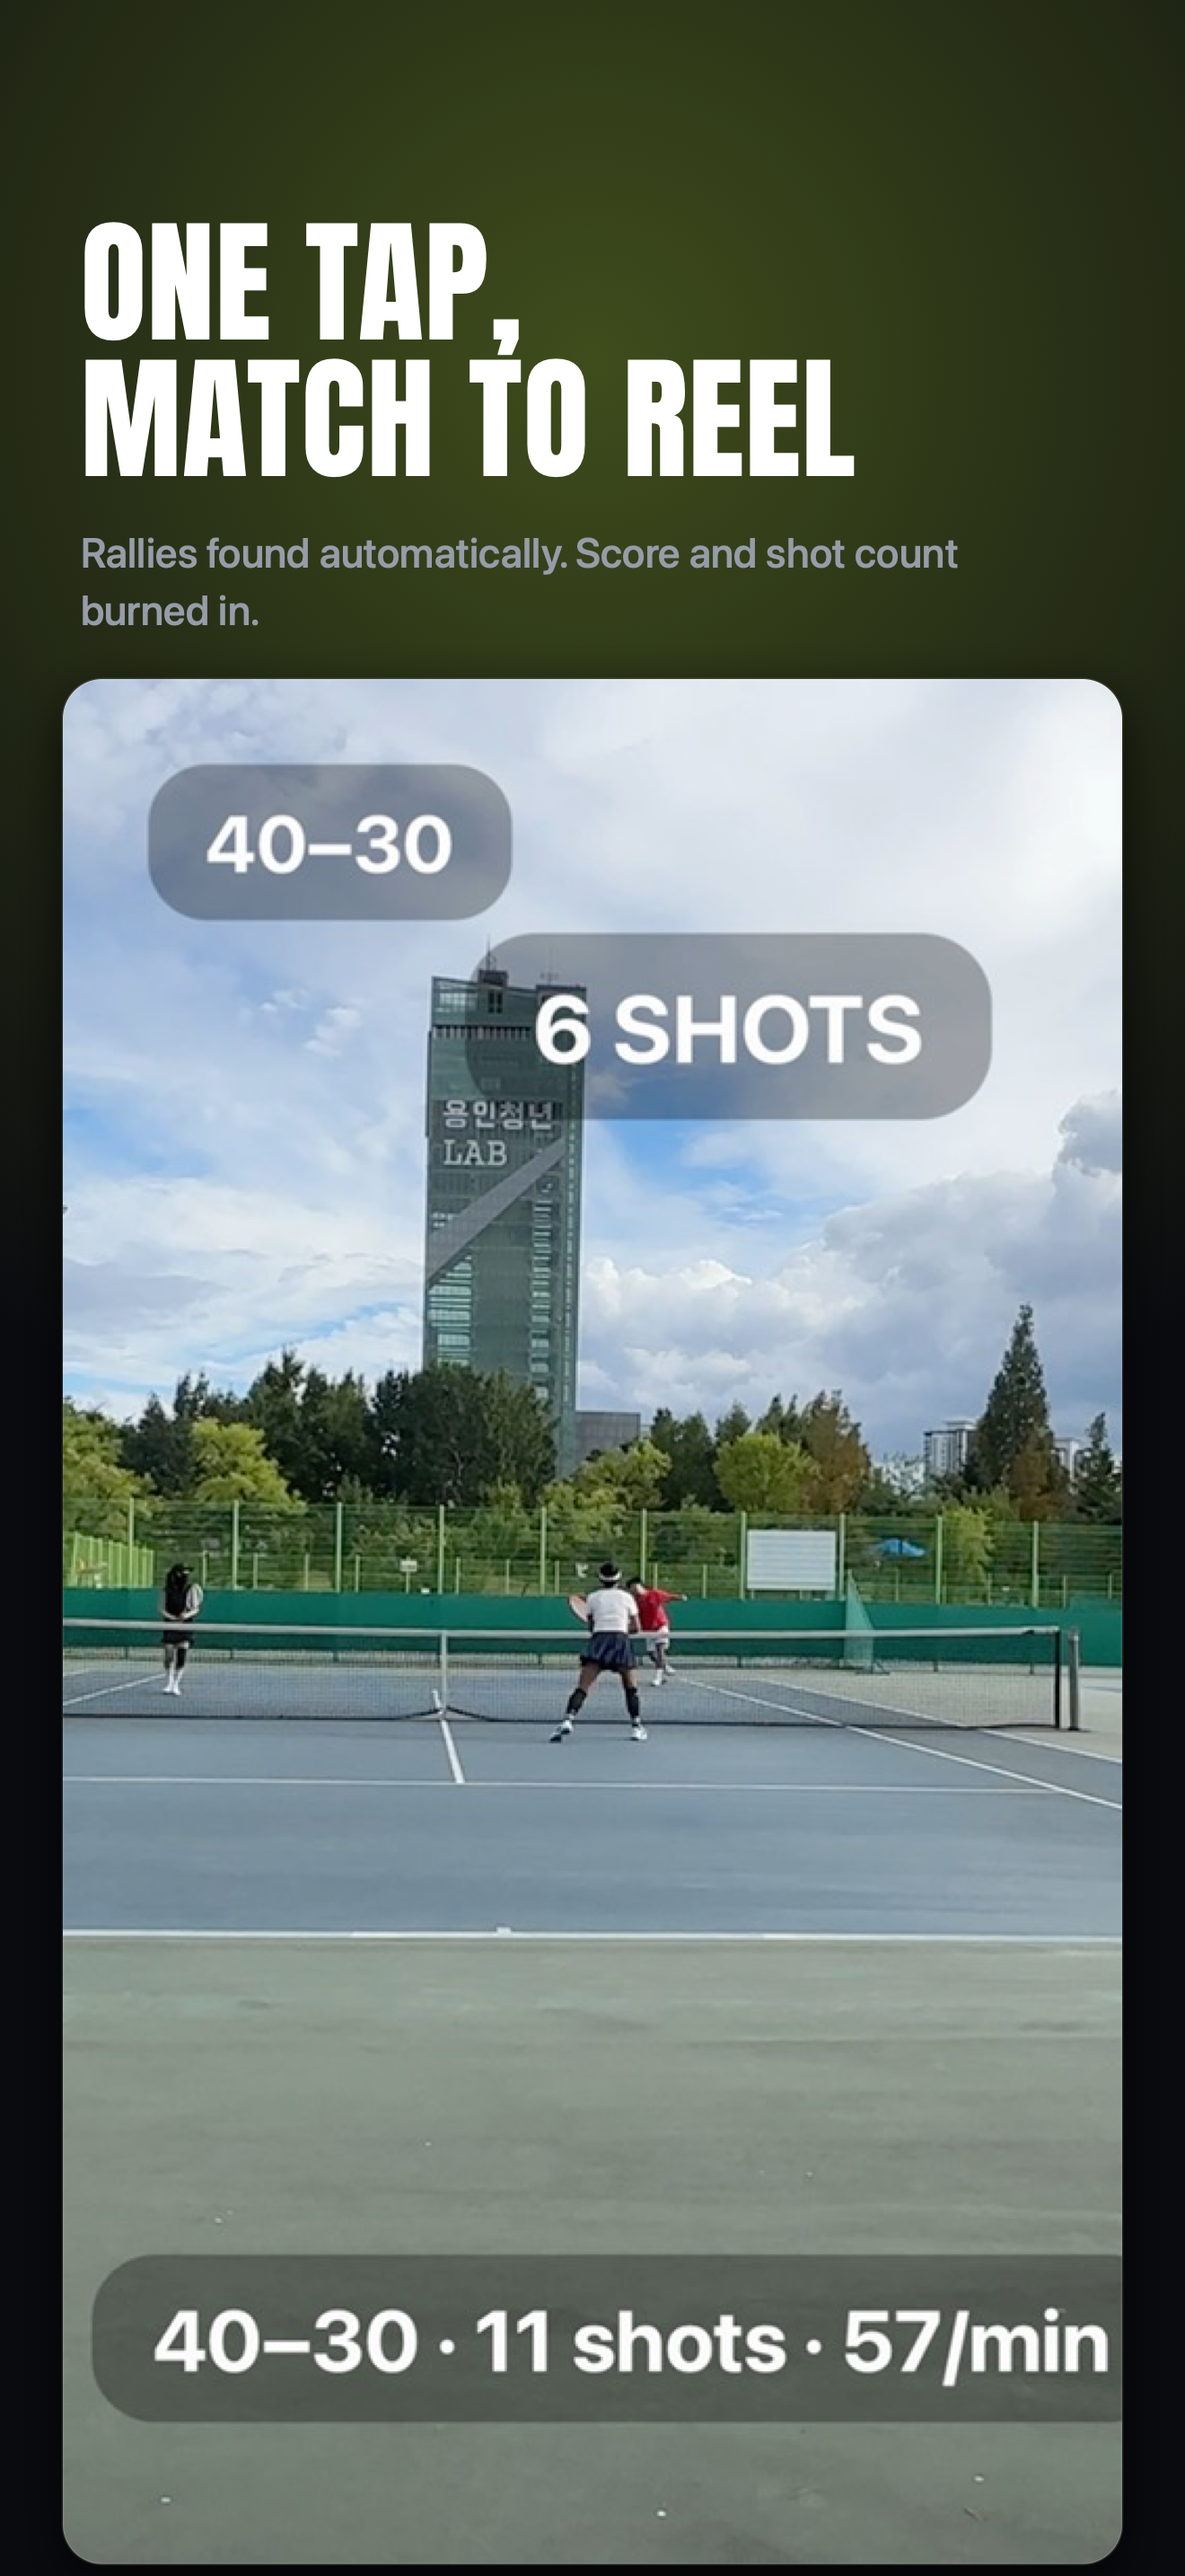
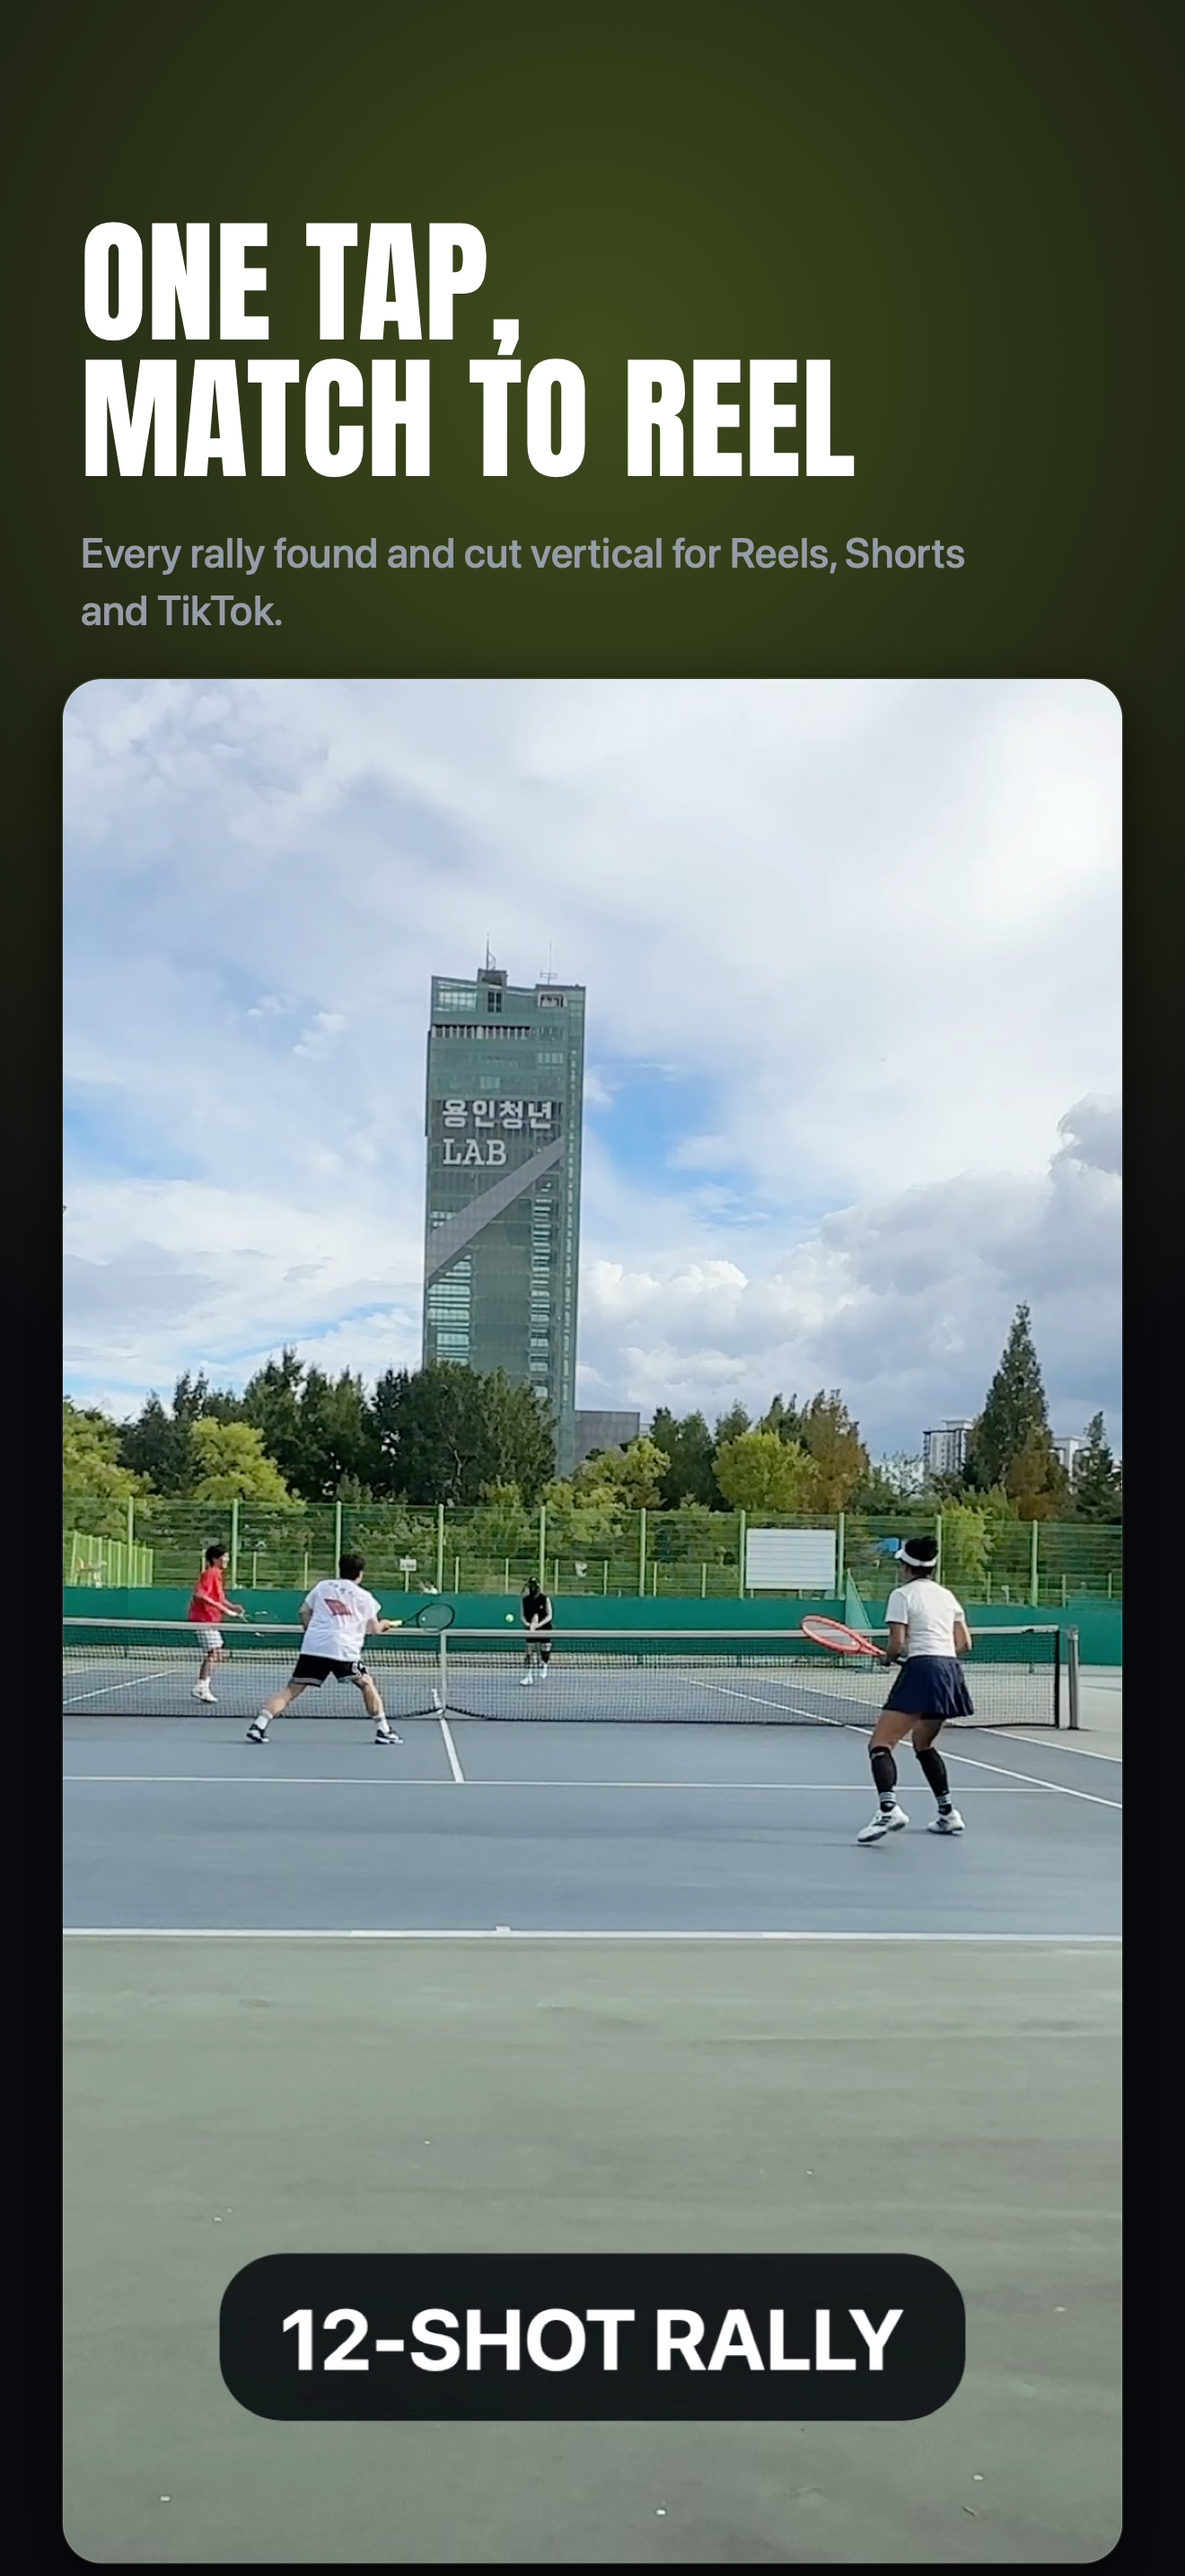
스토어 스크린샷 5장을 광고 전용 앱 기준으로 다시 만든다
점수판·타구 카운터·"PAY ONCE"가 찍혀 있던 옛 5장을 교체한다.
히어로(Pro 9:16 클립 + 자막) · 라이브러리 · 세션(26분 경기 → 12랠리 2:06) · 릴스 만들기(Best 5) · 시즌.
영어 UI, Debug Pro로 테스트 광고 배너 없이, 상태 바 9:41 고정. 코트 이름·날짜는 데모 값이다.
헤드라인도 없앤 기능 문구를 걷어내고 새로 썼다.

diff --git a/ios/Tools/make_screenshots.swift b/ios/Tools/make_screenshots.swift
@@ -50,7 +50,7 @@ struct Frame {
 let frames: [Frame] = [
     Frame(file: "hero.jpg",
           headline: ["ONE TAP,", "MATCH TO REEL"],
-          sub: "Rallies found automatically. Score and shot count burned in.",
+          sub: "Every rally found and cut vertical for Reels, Shorts and TikTok.",
           full: true),
     Frame(file: "s1_library.png",
           headline: ["SKIP THE", "DEAD TIME"],
@@ -58,15 +58,15 @@ let frames: [Frame] = [
           full: false),
     Frame(file: "s2_session.png",
           headline: ["FOUND BY", "SOUND"],
-          sub: "No tripod, no mount, no fixed angle. It listens for the strike.",
+          sub: "It listens for the strike. Tennis, badminton, pickleball, padel.",
           full: false),
-    Frame(file: "s3_season.png",
+    Frame(file: "s3_reel.png",
+          headline: ["BEST RALLIES,", "ONE REEL"],
+          sub: "Keep the top rallies, pick the pace, post it.",
+          full: false),
+    Frame(file: "s4_season.png",
           headline: ["YOUR SEASON,", "COUNTED"],
-          sub: "Every rally, every court, every opponent you tagged.",
-          full: false),
-    Frame(file: "s4_clips.png",
-          headline: ["PAY ONCE.", "NO ACCOUNT."],
-          sub: "Everything runs on your iPhone. Your video never leaves it.",
+          sub: "Every rally, every court. Your video never leaves your iPhone.",
           full: false),
 ]
 

diff --git a/ios/APP_STORE.md b/ios/APP_STORE.md
@@ -8,7 +8,7 @@
 |---|---|---|
 | Apple Developer Program | ✅ 가입 완료 | 2026-09-01 결제 완료 |
 | 앱 아이콘 1024px | ✅ 포함됨 | `Ribatto/Assets.xcassets/AppIcon.appiconset` |
-| 스크린샷 6.9" | ✅ 초안 포함 | `Marketing/` (필요 시 실기기 영상으로 재촬영 권장) |
+| 스크린샷 6.9" | ✅ 완료 | `marketing/01~05` (2026-09-22 광고 전용 기준으로 다시 만듦) |
 | 개인정보 처리방침 URL | ⬜ 필요 | 아래 초안 참고. GitHub Pages/노션 공개 페이지면 충분 |
 | 유료 계약(Paid Apps) | 필요 없음 | 인앱 구입이 없다(2026-09-15 광고 전용 전환). 광고 수익은 AdMob 콘솔에서 따로 정산 |
 | AdMob 앱·광고 단위 ID | ⬜ 필요 | Release 빌드 설정에 입력([RELEASE.md](RELEASE.md) 4-2). 비면 광고도 Pro도 없다 |
@@ -128,6 +128,6 @@ AdMob의 최신 공개 안내(Google "Prepare for Apple's App Store data disclos
 - [ ] Release 구성으로 Archive (`Product → Archive`) → Validate → Distribute
 - [ ] 실기기에서 최소 3개 이상의 실제 경기 영상으로 감지 품질 확인 ([DEVICE_TESTING.md](DEVICE_TESTING.md))
 - [ ] 번들 ID가 App Store Connect와 일치하는지
-- [ ] 스크린샷에 실제 UI가 아닌 요소(디바이스 프레임 위조 등)가 없는지 — 점수판·"PAY ONCE"가 찍힌 현재 5장은 다시 만들 것
+- [ ] 스크린샷에 실제 UI가 아닌 요소(디바이스 프레임 위조 등)가 없는지 — 2026-09-22 다시 만든 5장
 - [ ] Release 빌드에서 리워드 광고가 뜨고 Pro가 열리는지(TestFlight)
 - [ ] EU 판매 여부 결정 — UMP 동의 폼은 연결돼 있지 않다. 연결 전에는 EU 27개국 판매를 끈다

diff --git a/ios/SUBMIT_GUIDE.md b/ios/SUBMIT_GUIDE.md
@@ -93,7 +93,7 @@ App Store Connect의 앱 페이지에서:
 | 광고 추적 선언 누락 (5.1.2) | ✅ ATT 프롬프트 + `NSPrivacyTracking` true + 설문 "수집함" |
 | 광고가 앱 사용을 방해 | ✅ 전면광고는 렌더 완료 직후만, 3분 간격, 편집·재생 중에는 안 뜸 |
 | 개인정보 처리방침 URL 누락/접속 불가 | ⬜ 본인이 페이지를 올려야 함 |
-| 스크린샷이 실제 앱과 다름 | ⬜ **현재 5장에 삭제된 점수판·"PAY ONCE"가 있다. 다시 만들 것** |
+| 스크린샷이 실제 앱과 다름 | ✅ 2026-09-22 실제 화면으로 다시 만듦 |
 | 기능이 부실하다(Minimum Functionality) | ✅ 실제 영상 처리 기능이 핵심이라 해당 없음 |
 | 앱이 심사 중 크래시 | ⬜ **실기기 테스트 필수** ([TESTING.md](TESTING.md)) |
 

diff --git a/CLAUDE.md b/CLAUDE.md
@@ -110,7 +110,8 @@ swift Tools/make_screenshots.swift <캡처폴더> <출력폴더>   # ios/ 에서
 ```
 
 스크린샷 속 세션 이름·코트는 데모용으로 채운 값이다. 실제 사용자 데이터가 아니다.
-**현재 스크린샷에는 삭제한 점수판·타구 카운터·"PAY ONCE"가 찍혀 있다.** 제출 전에 다시 만들어야 한다.
+2026-09-22에 광고 전용 기준으로 다시 만들었다: 히어로(Pro 9:16 클립) · 라이브러리 · 세션 · 릴스 만들기 · 시즌.
+캡처는 영어 UI + Debug Pro(테스트 광고 배너가 안 찍히게) + `simctl status_bar override --time 9:41`. 히어로는 `hero.jpg`로 넣는다.
 
 ## Pro 테스트
 
